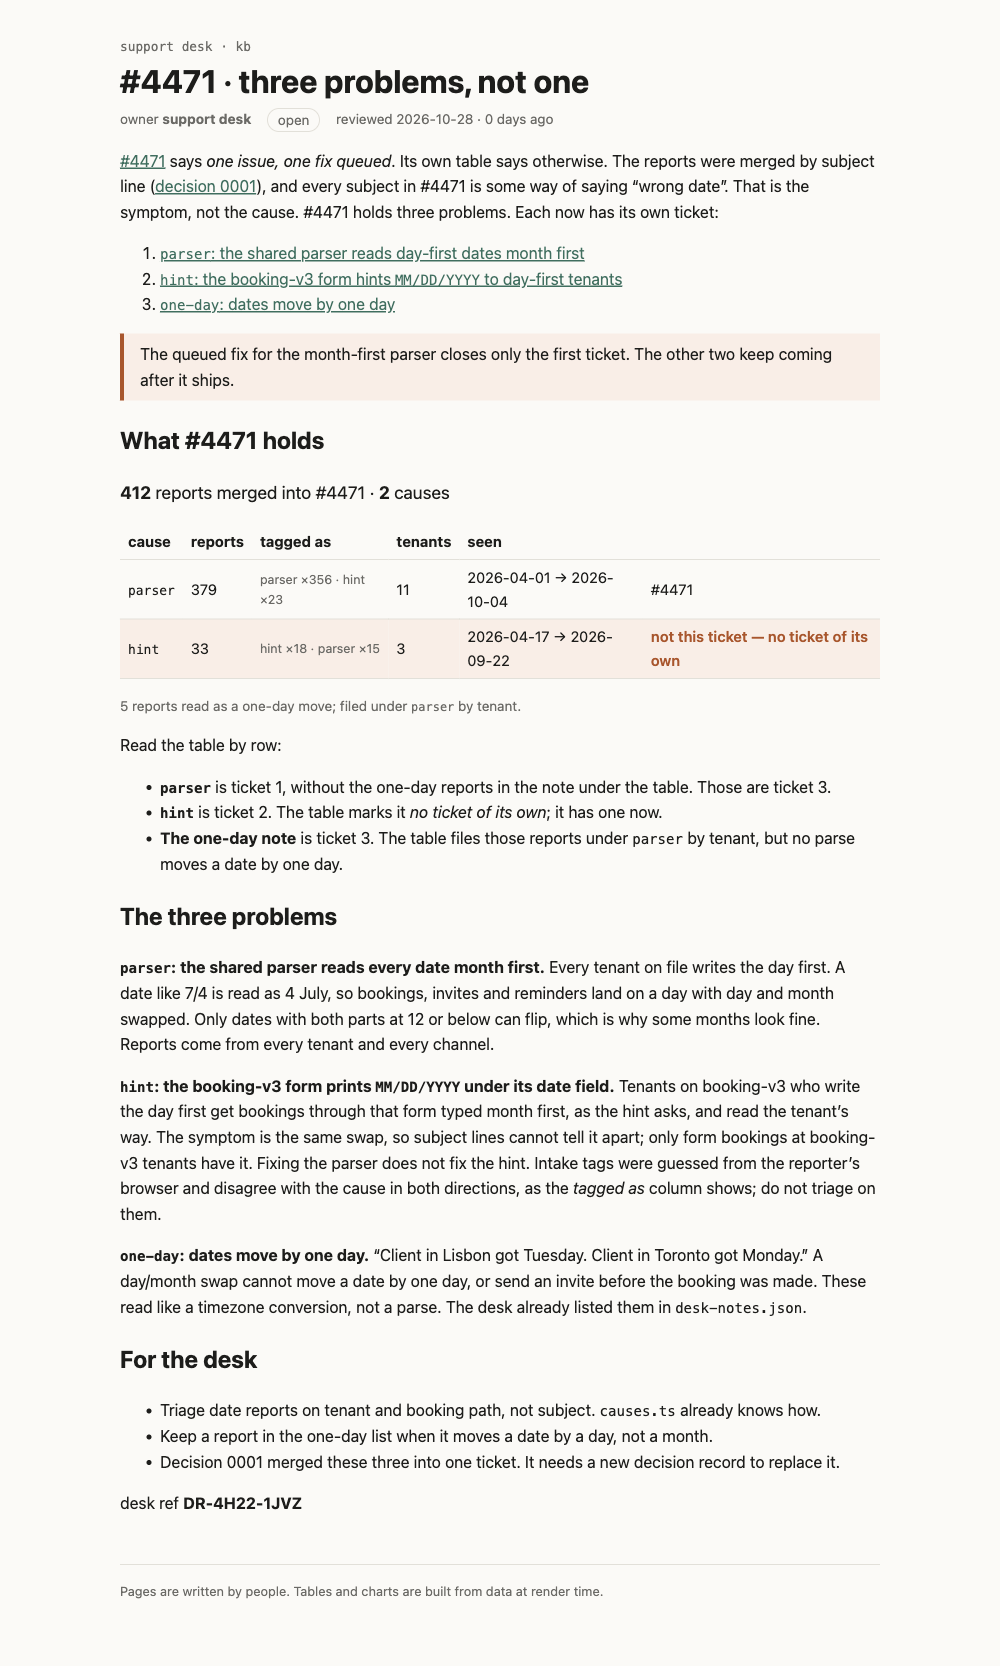
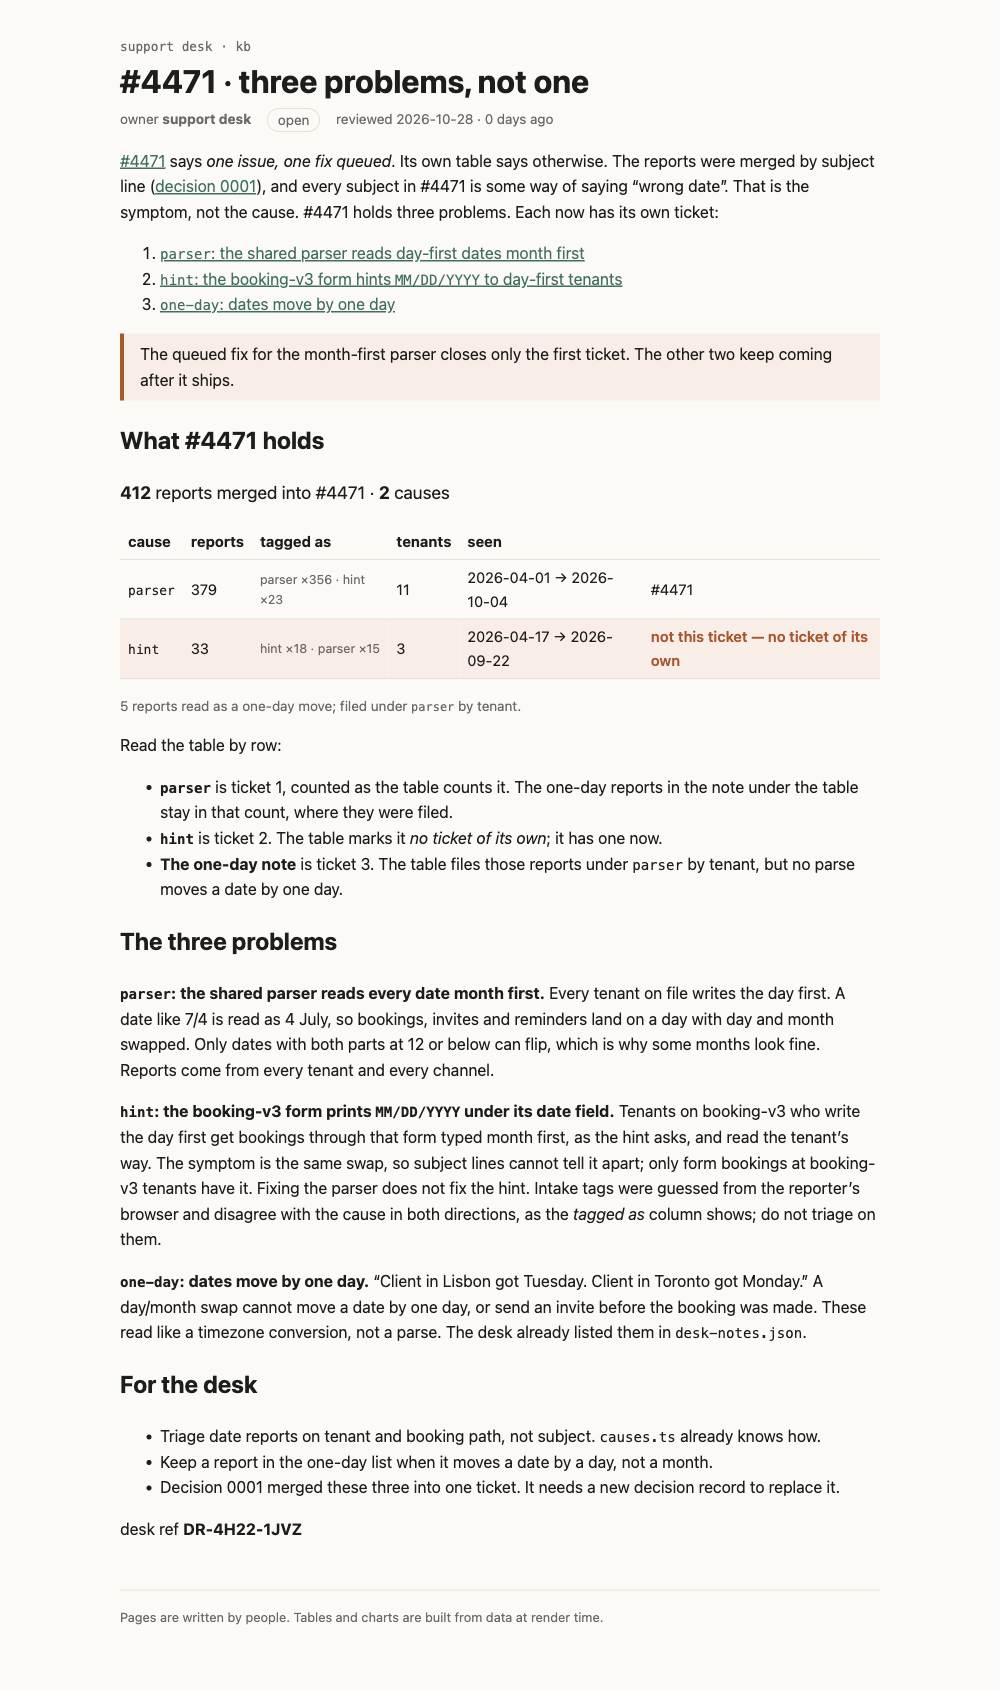
kb: parser ticket counted as the desk's table counts it

diff --git a/rendered/kb-incidents-4471-problems.html b/rendered/kb-incidents-4471-problems.html
@@ -29,8 +29,8 @@
 reports were merged by subject line (<a href="/kb/decisions/0001-dedupe-by-subject">decision 0001</a>), and
 every subject in #4471 is some way of saying “wrong date”. That is the symptom, not the cause.
 #4471 holds three problems. Each now has its own ticket:</p> <ol><li><a href="https://github.com/BorislavStefanov31/support-kb-4471/issues/1" rel="nofollow"><code>parser</code>: the shared parser reads day-first dates month first</a></li> <li><a href="https://github.com/BorislavStefanov31/support-kb-4471/issues/2" rel="nofollow"><code>hint</code>: the booking-v3 form hints <code>MM/DD/YYYY</code> to day-first tenants</a></li> <li><a href="https://github.com/BorislavStefanov31/support-kb-4471/issues/3" rel="nofollow"><code>one-day</code>: dates move by one day</a></li></ol> <aside class="warn svelte-17bri61"><!---->The queued fix for the month-first parser closes only the first ticket. The other two keep coming
-after it ships.<!----></aside><!----> <h2>What #4471 holds</h2> <p class="sum svelte-12oyimm"><strong>412</strong> reports merged into #4471 · <strong>2</strong> causes</p> <table><thead><tr><th>cause</th><th>reports</th><th>tagged as</th><th>tenants</th><th>seen</th><th></th></tr></thead><tbody><!--[--><tr class="svelte-12oyimm"><td class="svelte-12oyimm"><code>parser</code></td><td class="svelte-12oyimm">379</td><td class="tags svelte-12oyimm">parser ×356 · hint ×23</td><td class="svelte-12oyimm">11</td><td class="svelte-12oyimm">2026-04-01 → 2026-10-04</td><td class="svelte-12oyimm">#4471</td></tr><tr class="svelte-12oyimm wrong"><td class="svelte-12oyimm"><code>hint</code></td><td class="svelte-12oyimm">33</td><td class="tags svelte-12oyimm">hint ×18 · parser ×15</td><td class="svelte-12oyimm">3</td><td class="svelte-12oyimm">2026-04-17 → 2026-09-22</td><td class="svelte-12oyimm">not this ticket — no ticket of its own</td></tr><!--]--></tbody></table> <!--[--><!--[0--><p class="note svelte-12oyimm">5 reports read as a one-day move; filed under <code>parser</code> by tenant.</p><!--]--><!--[-1--><!--]--><!--]--><!----> <p>Read the table by row:</p> <ul><li><strong><code>parser</code></strong> is ticket 1, without the one-day reports in the note under the table. Those are
-ticket 3.</li> <li><strong><code>hint</code></strong> is ticket 2. The table marks it <em>no ticket of its own</em>; it has one now.</li> <li><strong>The one-day note</strong> is ticket 3. The table files those reports under <code>parser</code> by tenant, but no
+after it ships.<!----></aside><!----> <h2>What #4471 holds</h2> <p class="sum svelte-12oyimm"><strong>412</strong> reports merged into #4471 · <strong>2</strong> causes</p> <table><thead><tr><th>cause</th><th>reports</th><th>tagged as</th><th>tenants</th><th>seen</th><th></th></tr></thead><tbody><!--[--><tr class="svelte-12oyimm"><td class="svelte-12oyimm"><code>parser</code></td><td class="svelte-12oyimm">379</td><td class="tags svelte-12oyimm">parser ×356 · hint ×23</td><td class="svelte-12oyimm">11</td><td class="svelte-12oyimm">2026-04-01 → 2026-10-04</td><td class="svelte-12oyimm">#4471</td></tr><tr class="svelte-12oyimm wrong"><td class="svelte-12oyimm"><code>hint</code></td><td class="svelte-12oyimm">33</td><td class="tags svelte-12oyimm">hint ×18 · parser ×15</td><td class="svelte-12oyimm">3</td><td class="svelte-12oyimm">2026-04-17 → 2026-09-22</td><td class="svelte-12oyimm">not this ticket — no ticket of its own</td></tr><!--]--></tbody></table> <!--[--><!--[0--><p class="note svelte-12oyimm">5 reports read as a one-day move; filed under <code>parser</code> by tenant.</p><!--]--><!--[-1--><!--]--><!--]--><!----> <p>Read the table by row:</p> <ul><li><strong><code>parser</code></strong> is ticket 1, counted as the table counts it. The one-day reports in the note under
+the table stay in that count, where they were filed.</li> <li><strong><code>hint</code></strong> is ticket 2. The table marks it <em>no ticket of its own</em>; it has one now.</li> <li><strong>The one-day note</strong> is ticket 3. The table files those reports under <code>parser</code> by tenant, but no
 parse moves a date by one day.</li></ul> <h2>The three problems</h2> <p><strong><code>parser</code>: the shared parser reads every date month first.</strong> Every tenant on file writes the day
 first. A date like 7/4 is read as 4 July, so bookings, invites and reminders land on a day with
 day and month swapped. Only dates with both parts at 12 or below can flip, which is why some
